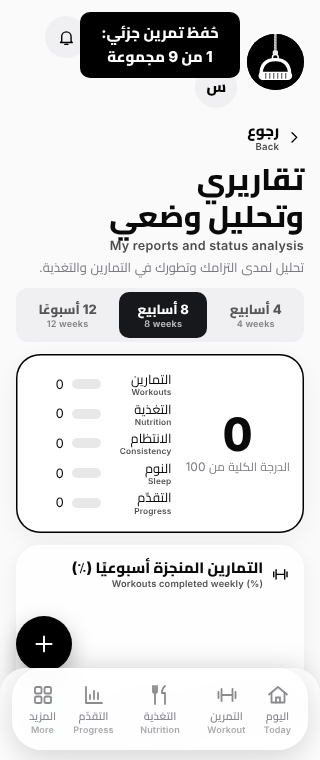
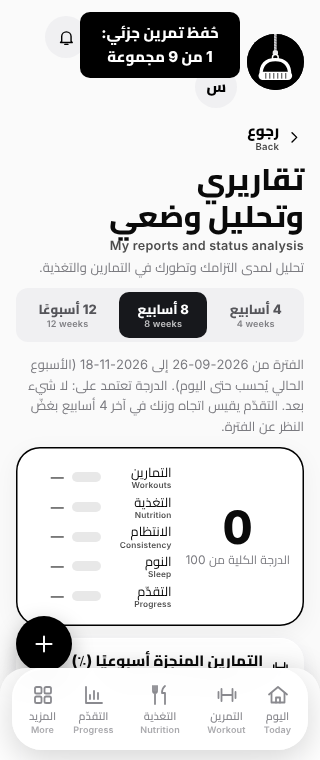
fix(ui): بطاقة اليوم لا تتجاوز 320px؛ لقطات الوزن والتقدّم وفحص الخروج عن العرض

diff --git a/app/fitness-tracker.html b/app/fitness-tracker.html
@@ -1202,7 +1202,7 @@ function vOnb(){const P=S.prof,w=curW();
 /* ---------- views: home ---------- */
 function todayCard(){
  const ti=TI(),T=tasks(),now=T.filter(t=>t.d===ti),dn=now.filter(t=>t.r).length,late=T.filter(t=>t.d<ti&&!t.r).length,pw=S.plan[ti],rest=!pw.ex.length;
- return '<div class="card tdc"><div class="row" style="flex-wrap:nowrap;gap:12px"><span class="fi" style="--c:'+(rest?'#6366f1':'#f97316')+'">'+ic(rest?'moon':'dumbbell')+'</span><div class="t" style="flex:1;min-width:0"><small class="mu">خطة اليوم</small><b class="tdt">'+(rest?'يوم راحة':esc(pw.t))+'</b></div>'+(rest?'':'<div class="tdp"><small>منجز</small><b class="num">'+dn+'/'+now.length+'</b></div>')+(late?'<div class="tdp late"><small>مرحّل</small><b class="num">'+late+'</b></div>':'')+'</div>'+(rest?'':'<div class="bar" style="margin:12px 0"><i style="width:'+pct(dn,now.length)+'%"></i></div>')+''+sxHero(rest,late).note+'<div class="row" style="gap:8px;margin-top:'+(rest?'12':'10')+'px;flex-wrap:nowrap">'+sxHero(rest,late).btn+'<button class="btn ghost big" style="flex:0 0 auto" data-a="go" data-v="train">'+ic('dumbbell')+'التمارين</button></div>'+sxHero(rest,late).mk+'<div class="mu" id="wk-goal" style="margin-top:10px">هدف الأسبوع: <b class="num">'+wkDays().n+' من '+wkDays().t+'</b> جلسات مكتملة</div></div>'}
+ return '<div class="card tdc"><div class="row" style="flex-wrap:nowrap;gap:12px"><span class="fi" style="--c:'+(rest?'#6366f1':'#f97316')+'">'+ic(rest?'moon':'dumbbell')+'</span><div class="t" style="flex:1;min-width:0"><small class="mu">خطة اليوم</small><b class="tdt">'+(rest?'يوم راحة':esc(pw.t))+'</b></div>'+(rest?'':'<div class="tdp"><small>منجز</small><b class="num">'+dn+'/'+now.length+'</b></div>')+(late?'<div class="tdp late"><small>مرحّل</small><b class="num">'+late+'</b></div>':'')+'</div>'+(rest?'':'<div class="bar" style="margin:12px 0"><i style="width:'+pct(dn,now.length)+'%"></i></div>')+''+sxHero(rest,late).note+'<div class="row" style="gap:8px;margin-top:'+(rest?'12':'10')+'px;flex-wrap:nowrap">'+sxHero(rest,late).btn+'<button class="btn ghost big" style="flex:0 0 auto;width:auto;padding-inline:12px" data-a="go" data-v="train">'+ic('dumbbell')+'التمارين</button></div>'+sxHero(rest,late).mk+'<div class="mu" id="wk-goal" style="margin-top:10px">هدف الأسبوع: <b class="num">'+wkDays().n+' من '+wkDays().t+'</b> جلسات مكتملة</div></div>'}
 function svcRow(){return '<div class="sechead"><h2>خدماتك</h2></div>'+rail(['arch','rpt','cul','tools'].map(i=>chipF(FD[i])))}
 function nutCard(fd){const N=S.nt,m=[['سعرات',fd.kcal,N.kcal,'#f97316',''],['بروتين',fd.p,N.p,'#ef4444','غ'],['كربوهيدرات',fd.c,N.c,'#3b82f6','غ'],['دهون',fd.f,N.f,'#eab308','غ']];
  return '<div class="card"><div class="row" style="margin-bottom:10px"><h2 style="margin:0">'+ic('fork')+'التغذية اليوم</h2><span class="sp"></span><span class="mu">المتبقي <b class="num" style="font-size:16px;color:'+(N.kcal-fd.kcal<0?'var(--bad)':'var(--tx)')+'">'+F(Math.abs(Math.round(N.kcal-fd.kcal)))+'</b> سعرة'+(N.kcal-fd.kcal<0?' زائدة':'')+'</span></div><div class="nm4">'+m.map(x=>'<div class="nmt"><small style="--c:'+x[3]+'">'+x[0]+'</small><b class="num"'+(x[1]>x[2]*1.05?' style="color:var(--bad)"':'')+'>'+F(Math.round(x[1]))+'</b><span class="mu">من '+F(x[2])+(x[4]?' '+x[4]:'')+'</span><div class="trk"><i style="width:'+pct(x[1],x[2])+'%;background:'+x[3]+'"></i></div></div>').join('')+'</div><div class="row" style="gap:8px;margin-top:12px;flex-wrap:nowrap"><button class="btn" style="flex:1" data-a="fgo" data-v="food">'+ic('plus')+'تسجيل وجبة</button><button class="btn ghost" data-a="go" data-v="food">فتح التغذية</button></div></div>'}
@@ -4114,9 +4114,9 @@ function sxHero(rest,late){const s=sxPart(TI()),f=sxToday(),ti=TI(),td=tasks().f
  let mk='';
  if(ms.length)mk+='<button class="btn ghost" style="width:100%;margin-top:8px" data-a="mkpick" id="mk-go">'+ic('timer')+'عوّض تمرينًا فائتًا <b class="num">'+ms.length+'</b></button>';
  if(pv.length)mk+='<div class="mu" id="mk-prev" style="margin-top:8px;font-size:13px">'+pv.length+' '+(pv.length>1?'جلسات جزئية':'جلسة جزئية')+' من أسبوع سابق محفوظة في الأرشيف للقراءة فقط</div>';
- if(s){const a=sxProg(s);return{mk:mk,note:'<div class="tag" style="margin:10px 0 0" id="sx-partial">'+ic('timer')+' تمرين جزئي محفوظ · '+a.d+' من '+a.t+' مجموعة</div>',btn:'<button class="btn big" style="flex:1" data-a="wkstart" id="sx-go">'+ic('play','f')+'أكمل التمرين</button>'}}
- if(td.length&&!left)return{mk:mk,note:'',btn:'<button class="btn big" style="flex:1" data-a="sxview" data-v="'+(f?f.id:'old|'+TD())+'" id="sx-go">'+ic('check','f')+'اعرض تمرينك المحفوظ</button>'}
- return{mk:mk,note:'',btn:'<button class="btn big" style="flex:1" data-a="wkstart" id="sx-go">'+ic('play','f')+(rest?'جلسة خفيفة':'ابدأ تمرين اليوم')+'</button>'}}
+ if(s){const a=sxProg(s);return{mk:mk,note:'<div class="tag" style="margin:10px 0 0" id="sx-partial">'+ic('timer')+' تمرين جزئي محفوظ · '+a.d+' من '+a.t+' مجموعة</div>',btn:'<button class="btn big" style="flex:1;min-width:0;padding-inline:10px" data-a="wkstart" id="sx-go">'+ic('play','f')+'أكمل التمرين</button>'}}
+ if(td.length&&!left)return{mk:mk,note:'',btn:'<button class="btn big" style="flex:1;min-width:0;padding-inline:10px" data-a="sxview" data-v="'+(f?f.id:'old|'+TD())+'" id="sx-go">'+ic('check','f')+'اعرض تمرينك المحفوظ</button>'}
+ return{mk:mk,note:'',btn:'<button class="btn big" style="flex:1;min-width:0;padding-inline:10px" data-a="wkstart" id="sx-go">'+ic('play','f')+(rest?'جلسة خفيفة':'ابدأ تمرين اليوم')+'</button>'}}
 function vMk(){const ms=sxMissed(),pv=sxPrev();
  let h=back()+'<div class="card"><h2>'+ic('timer')+'عوّض تمرينًا فائتًا</h2><div class="mu">حصص من هذا الأسبوع لم تكتمل. التعويض جلسة مستقلة تُحتسب مرة واحدة، ولا تغيّر حصة اليوم.</div></div>';
  if(!ms.length)h+='<div class="card mu" id="mk-empty">لا توجد حصص فائتة هذا الأسبوع.</div>';

diff --git a/pwa/index.html b/pwa/index.html
@@ -1203,7 +1203,7 @@ function vOnb(){const P=S.prof,w=curW();
 /* ---------- views: home ---------- */
 function todayCard(){
  const ti=TI(),T=tasks(),now=T.filter(t=>t.d===ti),dn=now.filter(t=>t.r).length,late=T.filter(t=>t.d<ti&&!t.r).length,pw=S.plan[ti],rest=!pw.ex.length;
- return '<div class="card tdc"><div class="row" style="flex-wrap:nowrap;gap:12px"><span class="fi" style="--c:'+(rest?'#6366f1':'#f97316')+'">'+ic(rest?'moon':'dumbbell')+'</span><div class="t" style="flex:1;min-width:0"><small class="mu">خطة اليوم</small><b class="tdt">'+(rest?'يوم راحة':esc(pw.t))+'</b></div>'+(rest?'':'<div class="tdp"><small>منجز</small><b class="num">'+dn+'/'+now.length+'</b></div>')+(late?'<div class="tdp late"><small>مرحّل</small><b class="num">'+late+'</b></div>':'')+'</div>'+(rest?'':'<div class="bar" style="margin:12px 0"><i style="width:'+pct(dn,now.length)+'%"></i></div>')+''+sxHero(rest,late).note+'<div class="row" style="gap:8px;margin-top:'+(rest?'12':'10')+'px;flex-wrap:nowrap">'+sxHero(rest,late).btn+'<button class="btn ghost big" style="flex:0 0 auto" data-a="go" data-v="train">'+ic('dumbbell')+'التمارين</button></div>'+sxHero(rest,late).mk+'<div class="mu" id="wk-goal" style="margin-top:10px">هدف الأسبوع: <b class="num">'+wkDays().n+' من '+wkDays().t+'</b> جلسات مكتملة</div></div>'}
+ return '<div class="card tdc"><div class="row" style="flex-wrap:nowrap;gap:12px"><span class="fi" style="--c:'+(rest?'#6366f1':'#f97316')+'">'+ic(rest?'moon':'dumbbell')+'</span><div class="t" style="flex:1;min-width:0"><small class="mu">خطة اليوم</small><b class="tdt">'+(rest?'يوم راحة':esc(pw.t))+'</b></div>'+(rest?'':'<div class="tdp"><small>منجز</small><b class="num">'+dn+'/'+now.length+'</b></div>')+(late?'<div class="tdp late"><small>مرحّل</small><b class="num">'+late+'</b></div>':'')+'</div>'+(rest?'':'<div class="bar" style="margin:12px 0"><i style="width:'+pct(dn,now.length)+'%"></i></div>')+''+sxHero(rest,late).note+'<div class="row" style="gap:8px;margin-top:'+(rest?'12':'10')+'px;flex-wrap:nowrap">'+sxHero(rest,late).btn+'<button class="btn ghost big" style="flex:0 0 auto;width:auto;padding-inline:12px" data-a="go" data-v="train">'+ic('dumbbell')+'التمارين</button></div>'+sxHero(rest,late).mk+'<div class="mu" id="wk-goal" style="margin-top:10px">هدف الأسبوع: <b class="num">'+wkDays().n+' من '+wkDays().t+'</b> جلسات مكتملة</div></div>'}
 function svcRow(){return '<div class="sechead"><h2>خدماتك</h2></div>'+rail(['arch','rpt','cul','tools'].map(i=>chipF(FD[i])))}
 function nutCard(fd){const N=S.nt,m=[['سعرات',fd.kcal,N.kcal,'#f97316',''],['بروتين',fd.p,N.p,'#ef4444','غ'],['كربوهيدرات',fd.c,N.c,'#3b82f6','غ'],['دهون',fd.f,N.f,'#eab308','غ']];
  return '<div class="card"><div class="row" style="margin-bottom:10px"><h2 style="margin:0">'+ic('fork')+'التغذية اليوم</h2><span class="sp"></span><span class="mu">المتبقي <b class="num" style="font-size:16px;color:'+(N.kcal-fd.kcal<0?'var(--bad)':'var(--tx)')+'">'+F(Math.abs(Math.round(N.kcal-fd.kcal)))+'</b> سعرة'+(N.kcal-fd.kcal<0?' زائدة':'')+'</span></div><div class="nm4">'+m.map(x=>'<div class="nmt"><small style="--c:'+x[3]+'">'+x[0]+'</small><b class="num"'+(x[1]>x[2]*1.05?' style="color:var(--bad)"':'')+'>'+F(Math.round(x[1]))+'</b><span class="mu">من '+F(x[2])+(x[4]?' '+x[4]:'')+'</span><div class="trk"><i style="width:'+pct(x[1],x[2])+'%;background:'+x[3]+'"></i></div></div>').join('')+'</div><div class="row" style="gap:8px;margin-top:12px;flex-wrap:nowrap"><button class="btn" style="flex:1" data-a="fgo" data-v="food">'+ic('plus')+'تسجيل وجبة</button><button class="btn ghost" data-a="go" data-v="food">فتح التغذية</button></div></div>'}
@@ -4115,9 +4115,9 @@ function sxHero(rest,late){const s=sxPart(TI()),f=sxToday(),ti=TI(),td=tasks().f
  let mk='';
  if(ms.length)mk+='<button class="btn ghost" style="width:100%;margin-top:8px" data-a="mkpick" id="mk-go">'+ic('timer')+'عوّض تمرينًا فائتًا <b class="num">'+ms.length+'</b></button>';
  if(pv.length)mk+='<div class="mu" id="mk-prev" style="margin-top:8px;font-size:13px">'+pv.length+' '+(pv.length>1?'جلسات جزئية':'جلسة جزئية')+' من أسبوع سابق محفوظة في الأرشيف للقراءة فقط</div>';
- if(s){const a=sxProg(s);return{mk:mk,note:'<div class="tag" style="margin:10px 0 0" id="sx-partial">'+ic('timer')+' تمرين جزئي محفوظ · '+a.d+' من '+a.t+' مجموعة</div>',btn:'<button class="btn big" style="flex:1" data-a="wkstart" id="sx-go">'+ic('play','f')+'أكمل التمرين</button>'}}
- if(td.length&&!left)return{mk:mk,note:'',btn:'<button class="btn big" style="flex:1" data-a="sxview" data-v="'+(f?f.id:'old|'+TD())+'" id="sx-go">'+ic('check','f')+'اعرض تمرينك المحفوظ</button>'}
- return{mk:mk,note:'',btn:'<button class="btn big" style="flex:1" data-a="wkstart" id="sx-go">'+ic('play','f')+(rest?'جلسة خفيفة':'ابدأ تمرين اليوم')+'</button>'}}
+ if(s){const a=sxProg(s);return{mk:mk,note:'<div class="tag" style="margin:10px 0 0" id="sx-partial">'+ic('timer')+' تمرين جزئي محفوظ · '+a.d+' من '+a.t+' مجموعة</div>',btn:'<button class="btn big" style="flex:1;min-width:0;padding-inline:10px" data-a="wkstart" id="sx-go">'+ic('play','f')+'أكمل التمرين</button>'}}
+ if(td.length&&!left)return{mk:mk,note:'',btn:'<button class="btn big" style="flex:1;min-width:0;padding-inline:10px" data-a="sxview" data-v="'+(f?f.id:'old|'+TD())+'" id="sx-go">'+ic('check','f')+'اعرض تمرينك المحفوظ</button>'}
+ return{mk:mk,note:'',btn:'<button class="btn big" style="flex:1;min-width:0;padding-inline:10px" data-a="wkstart" id="sx-go">'+ic('play','f')+(rest?'جلسة خفيفة':'ابدأ تمرين اليوم')+'</button>'}}
 function vMk(){const ms=sxMissed(),pv=sxPrev();
  let h=back()+'<div class="card"><h2>'+ic('timer')+'عوّض تمرينًا فائتًا</h2><div class="mu">حصص من هذا الأسبوع لم تكتمل. التعويض جلسة مستقلة تُحتسب مرة واحدة، ولا تغيّر حصة اليوم.</div></div>';
  if(!ms.length)h+='<div class="card mu" id="mk-empty">لا توجد حصص فائتة هذا الأسبوع.</div>';

diff --git a/www/index.html b/www/index.html
@@ -1203,7 +1203,7 @@ function vOnb(){const P=S.prof,w=curW();
 /* ---------- views: home ---------- */
 function todayCard(){
  const ti=TI(),T=tasks(),now=T.filter(t=>t.d===ti),dn=now.filter(t=>t.r).length,late=T.filter(t=>t.d<ti&&!t.r).length,pw=S.plan[ti],rest=!pw.ex.length;
- return '<div class="card tdc"><div class="row" style="flex-wrap:nowrap;gap:12px"><span class="fi" style="--c:'+(rest?'#6366f1':'#f97316')+'">'+ic(rest?'moon':'dumbbell')+'</span><div class="t" style="flex:1;min-width:0"><small class="mu">خطة اليوم</small><b class="tdt">'+(rest?'يوم راحة':esc(pw.t))+'</b></div>'+(rest?'':'<div class="tdp"><small>منجز</small><b class="num">'+dn+'/'+now.length+'</b></div>')+(late?'<div class="tdp late"><small>مرحّل</small><b class="num">'+late+'</b></div>':'')+'</div>'+(rest?'':'<div class="bar" style="margin:12px 0"><i style="width:'+pct(dn,now.length)+'%"></i></div>')+''+sxHero(rest,late).note+'<div class="row" style="gap:8px;margin-top:'+(rest?'12':'10')+'px;flex-wrap:nowrap">'+sxHero(rest,late).btn+'<button class="btn ghost big" style="flex:0 0 auto" data-a="go" data-v="train">'+ic('dumbbell')+'التمارين</button></div>'+sxHero(rest,late).mk+'<div class="mu" id="wk-goal" style="margin-top:10px">هدف الأسبوع: <b class="num">'+wkDays().n+' من '+wkDays().t+'</b> جلسات مكتملة</div></div>'}
+ return '<div class="card tdc"><div class="row" style="flex-wrap:nowrap;gap:12px"><span class="fi" style="--c:'+(rest?'#6366f1':'#f97316')+'">'+ic(rest?'moon':'dumbbell')+'</span><div class="t" style="flex:1;min-width:0"><small class="mu">خطة اليوم</small><b class="tdt">'+(rest?'يوم راحة':esc(pw.t))+'</b></div>'+(rest?'':'<div class="tdp"><small>منجز</small><b class="num">'+dn+'/'+now.length+'</b></div>')+(late?'<div class="tdp late"><small>مرحّل</small><b class="num">'+late+'</b></div>':'')+'</div>'+(rest?'':'<div class="bar" style="margin:12px 0"><i style="width:'+pct(dn,now.length)+'%"></i></div>')+''+sxHero(rest,late).note+'<div class="row" style="gap:8px;margin-top:'+(rest?'12':'10')+'px;flex-wrap:nowrap">'+sxHero(rest,late).btn+'<button class="btn ghost big" style="flex:0 0 auto;width:auto;padding-inline:12px" data-a="go" data-v="train">'+ic('dumbbell')+'التمارين</button></div>'+sxHero(rest,late).mk+'<div class="mu" id="wk-goal" style="margin-top:10px">هدف الأسبوع: <b class="num">'+wkDays().n+' من '+wkDays().t+'</b> جلسات مكتملة</div></div>'}
 function svcRow(){return '<div class="sechead"><h2>خدماتك</h2></div>'+rail(['arch','rpt','cul','tools'].map(i=>chipF(FD[i])))}
 function nutCard(fd){const N=S.nt,m=[['سعرات',fd.kcal,N.kcal,'#f97316',''],['بروتين',fd.p,N.p,'#ef4444','غ'],['كربوهيدرات',fd.c,N.c,'#3b82f6','غ'],['دهون',fd.f,N.f,'#eab308','غ']];
  return '<div class="card"><div class="row" style="margin-bottom:10px"><h2 style="margin:0">'+ic('fork')+'التغذية اليوم</h2><span class="sp"></span><span class="mu">المتبقي <b class="num" style="font-size:16px;color:'+(N.kcal-fd.kcal<0?'var(--bad)':'var(--tx)')+'">'+F(Math.abs(Math.round(N.kcal-fd.kcal)))+'</b> سعرة'+(N.kcal-fd.kcal<0?' زائدة':'')+'</span></div><div class="nm4">'+m.map(x=>'<div class="nmt"><small style="--c:'+x[3]+'">'+x[0]+'</small><b class="num"'+(x[1]>x[2]*1.05?' style="color:var(--bad)"':'')+'>'+F(Math.round(x[1]))+'</b><span class="mu">من '+F(x[2])+(x[4]?' '+x[4]:'')+'</span><div class="trk"><i style="width:'+pct(x[1],x[2])+'%;background:'+x[3]+'"></i></div></div>').join('')+'</div><div class="row" style="gap:8px;margin-top:12px;flex-wrap:nowrap"><button class="btn" style="flex:1" data-a="fgo" data-v="food">'+ic('plus')+'تسجيل وجبة</button><button class="btn ghost" data-a="go" data-v="food">فتح التغذية</button></div></div>'}
@@ -4115,9 +4115,9 @@ function sxHero(rest,late){const s=sxPart(TI()),f=sxToday(),ti=TI(),td=tasks().f
  let mk='';
  if(ms.length)mk+='<button class="btn ghost" style="width:100%;margin-top:8px" data-a="mkpick" id="mk-go">'+ic('timer')+'عوّض تمرينًا فائتًا <b class="num">'+ms.length+'</b></button>';
  if(pv.length)mk+='<div class="mu" id="mk-prev" style="margin-top:8px;font-size:13px">'+pv.length+' '+(pv.length>1?'جلسات جزئية':'جلسة جزئية')+' من أسبوع سابق محفوظة في الأرشيف للقراءة فقط</div>';
- if(s){const a=sxProg(s);return{mk:mk,note:'<div class="tag" style="margin:10px 0 0" id="sx-partial">'+ic('timer')+' تمرين جزئي محفوظ · '+a.d+' من '+a.t+' مجموعة</div>',btn:'<button class="btn big" style="flex:1" data-a="wkstart" id="sx-go">'+ic('play','f')+'أكمل التمرين</button>'}}
- if(td.length&&!left)return{mk:mk,note:'',btn:'<button class="btn big" style="flex:1" data-a="sxview" data-v="'+(f?f.id:'old|'+TD())+'" id="sx-go">'+ic('check','f')+'اعرض تمرينك المحفوظ</button>'}
- return{mk:mk,note:'',btn:'<button class="btn big" style="flex:1" data-a="wkstart" id="sx-go">'+ic('play','f')+(rest?'جلسة خفيفة':'ابدأ تمرين اليوم')+'</button>'}}
+ if(s){const a=sxProg(s);return{mk:mk,note:'<div class="tag" style="margin:10px 0 0" id="sx-partial">'+ic('timer')+' تمرين جزئي محفوظ · '+a.d+' من '+a.t+' مجموعة</div>',btn:'<button class="btn big" style="flex:1;min-width:0;padding-inline:10px" data-a="wkstart" id="sx-go">'+ic('play','f')+'أكمل التمرين</button>'}}
+ if(td.length&&!left)return{mk:mk,note:'',btn:'<button class="btn big" style="flex:1;min-width:0;padding-inline:10px" data-a="sxview" data-v="'+(f?f.id:'old|'+TD())+'" id="sx-go">'+ic('check','f')+'اعرض تمرينك المحفوظ</button>'}
+ return{mk:mk,note:'',btn:'<button class="btn big" style="flex:1;min-width:0;padding-inline:10px" data-a="wkstart" id="sx-go">'+ic('play','f')+(rest?'جلسة خفيفة':'ابدأ تمرين اليوم')+'</button>'}}
 function vMk(){const ms=sxMissed(),pv=sxPrev();
  let h=back()+'<div class="card"><h2>'+ic('timer')+'عوّض تمرينًا فائتًا</h2><div class="mu">حصص من هذا الأسبوع لم تكتمل. التعويض جلسة مستقلة تُحتسب مرة واحدة، ولا تغيّر حصة اليوم.</div></div>';
  if(!ms.length)h+='<div class="card mu" id="mk-empty">لا توجد حصص فائتة هذا الأسبوع.</div>';

diff --git a/tests/font.e2e.js b/tests/font.e2e.js
@@ -36,11 +36,14 @@ const PLAN=`(()=>{const rest={t:'راحة',ex:[]};return[rest,rest,rest,rest,{t:
   const c=await b.newContext({viewport:{width:w,height:760},deviceScaleFactor:1});await blockG(c);const p=await c.newPage();await c.addInitScript(t=>{try{localStorage.setItem('fit_theme',t)}catch(e){}},th);
   await p.clock.install({time:new Date('2026-11-18T10:00:00+03:00')});await p.goto(U);await p.waitForTimeout(500);await p.clock.resume();
   await p.evaluate(plan=>{S.prof.ob=1;S.prof.name='سارة';S.prof.sex='f';S.prof.age=28;S.prof.ht=165;S.prof.startW=70;S.prof.dpw=3;S.prof.goalType='lose';S.bw[TD()]=70;S.plan=eval(plan);S.tab='dash';save();render()},PLAN);
-  const shot=async n=>{await p.waitForTimeout(250);const o=await p.evaluate(()=>[document.documentElement.scrollWidth>innerWidth+1,[...document.querySelectorAll('#nav button')].some(e=>e.scrollWidth>e.clientWidth+1)]);ok(!o[0],`${w}/${th} ${n}: بلا تجاوز أفقي`);ok(!o[1],`${w}/${th} ${n}: أزرار الشريط لا تُقصّ`);await p.screenshot({path:`${OUT}/${n}-${w}-${th}.png`})};
+  const shot=async n=>{await p.waitForTimeout(250);const o=await p.evaluate(()=>[document.documentElement.scrollWidth>innerWidth+1,[...document.querySelectorAll('#nav button')].some(e=>e.scrollWidth>e.clientWidth+1)]);ok(!o[0],`${w}/${th} ${n}: بلا تجاوز أفقي`);ok(!o[1],`${w}/${th} ${n}: أزرار الشريط لا تُقصّ`);const cl=await p.evaluate(()=>[...document.querySelectorAll('main *, #app *, .card *')].filter(e=>{const r=e.getBoundingClientRect();return r.width>0&&(r.right>innerWidth+1||r.left<-1)&&getComputedStyle(e).position!=='fixed'&&!e.closest('svg')&&!(()=>{for(let a=e.parentElement;a&&a!==document.body;a=a.parentElement){const o=getComputedStyle(a).overflowX;if(o==='auto'||o==='scroll')return true}return false})()}).slice(0,3).map(e=>e.tagName+'.'+e.className));ok(cl.length===0,`${w}/${th} ${n}: لا عنصر يخرج عن عرض الشاشة`,cl.join(','));await p.screenshot({path:`${OUT}/${n}-${w}-${th}.png`})};
   await shot('today');
   await p.click('#sx-go');await p.click('[data-a=wkty][data-v=d]');await p.click('[data-a=wkrp][data-v="9"]');await shot('player');await p.click('[data-a=wkset]');await shot('player-set');await p.click('[data-a=wkend]');
   await p.click('[data-a=sub][data-v=arch]');await shot('archive');
   await p.evaluate(()=>{S.sub=null;S.tab='food';render()});await shot('food');
   await p.evaluate(()=>{S.tab='me';S.sub='rpt';render()});await shot('reports');
+  await p.evaluate(()=>{S.sub=null;S.tab='pg';render()});await shot('progress');
+  await p.evaluate(()=>{S.tab='ex';S.sub='wgt';render()});await shot('weight');
+  await p.evaluate(()=>{S.sub=null;S.tab='dash';render()});await p.click('#wform summary');await shot('today-weight-open');
   await c.close()}
  await b.close();srv.close();console.log(`\n${pass} ناجح، ${fail} فاشل`);process.exit(fail?1:0)})();
